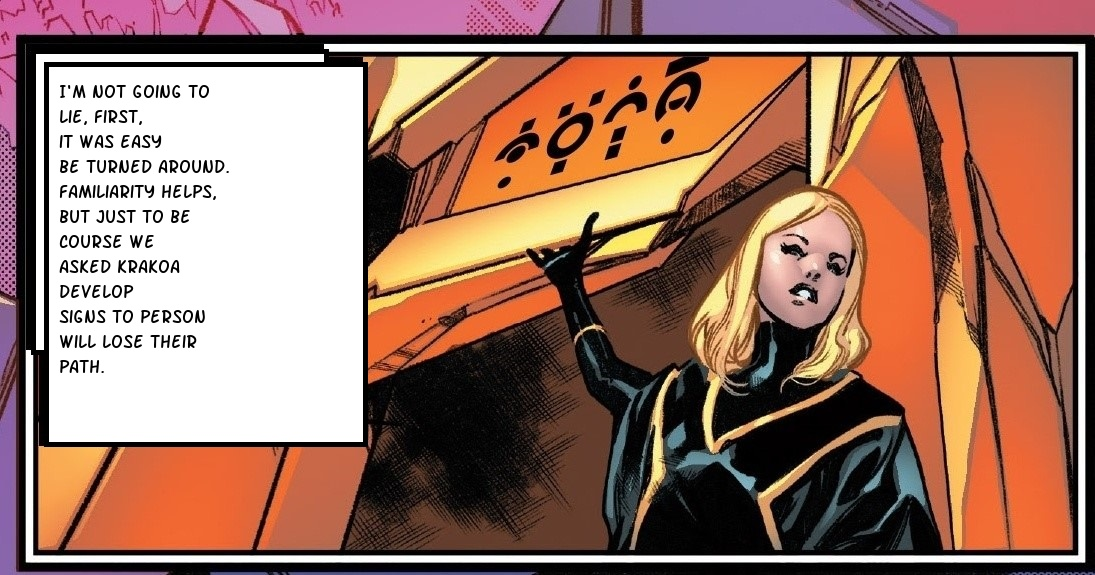
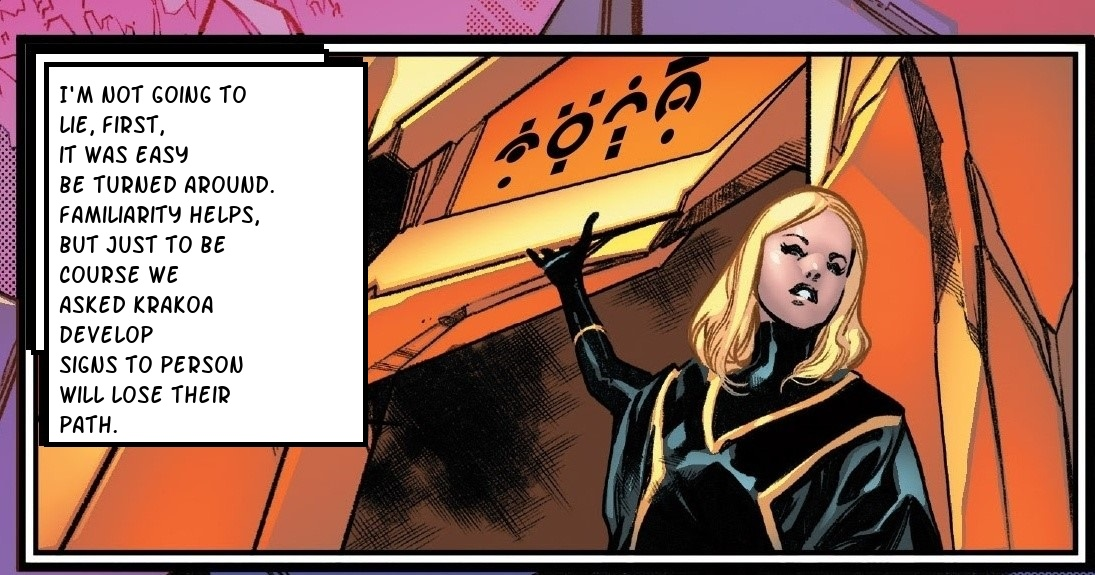
For PC 5

Changed region(s): [[0.0311, 0.1478, 0.2484, 0.7687]]

diff --git a/Functions.py b/Functions.py
@@ -12,6 +12,8 @@ from PIL import Image, ImageDraw, ImageFont
 import textwrap
 from googletrans import Translator
 
+FONT_SIZE = 25
+
 
 class ComicTranslator:
     def __init__(self, path):
@@ -93,7 +95,7 @@ class ComicTranslator:
 
             # Writing Text onto the newly created Image
             d = ImageDraw.Draw(balloon_box)
-            font = ImageFont.truetype("fonts/SF_Arch_Rival.ttf", size=20)
+            font = ImageFont.truetype("fonts/SF_Arch_Rival.ttf", size=FONT_SIZE)
             d.text((10, 10), whole_text.text, fill=(0, 0, 0), align="left", font=font)
 
             # Converting Image to BGR format suited for Opencv and constructing Borders

diff --git a/main.py b/main.py
@@ -45,7 +45,7 @@ logo = """
 """
 
 if __name__ == '__main__':
-    comic = ComicTranslator('images/moira-1.jpg')
+    comic = ComicTranslator('images/WORK/fra/moira-1.jpg')
     menu = ConsoleMenu(logo, "A Project By Prasanth, Manish and Ratan")
     function0 = FunctionItem("Show the Image Loaded", show_image, ["Show", comic.image])
     function1 = FunctionItem("Get Text Bubble Marked Image", comic.mark_text_bubbles, [])
